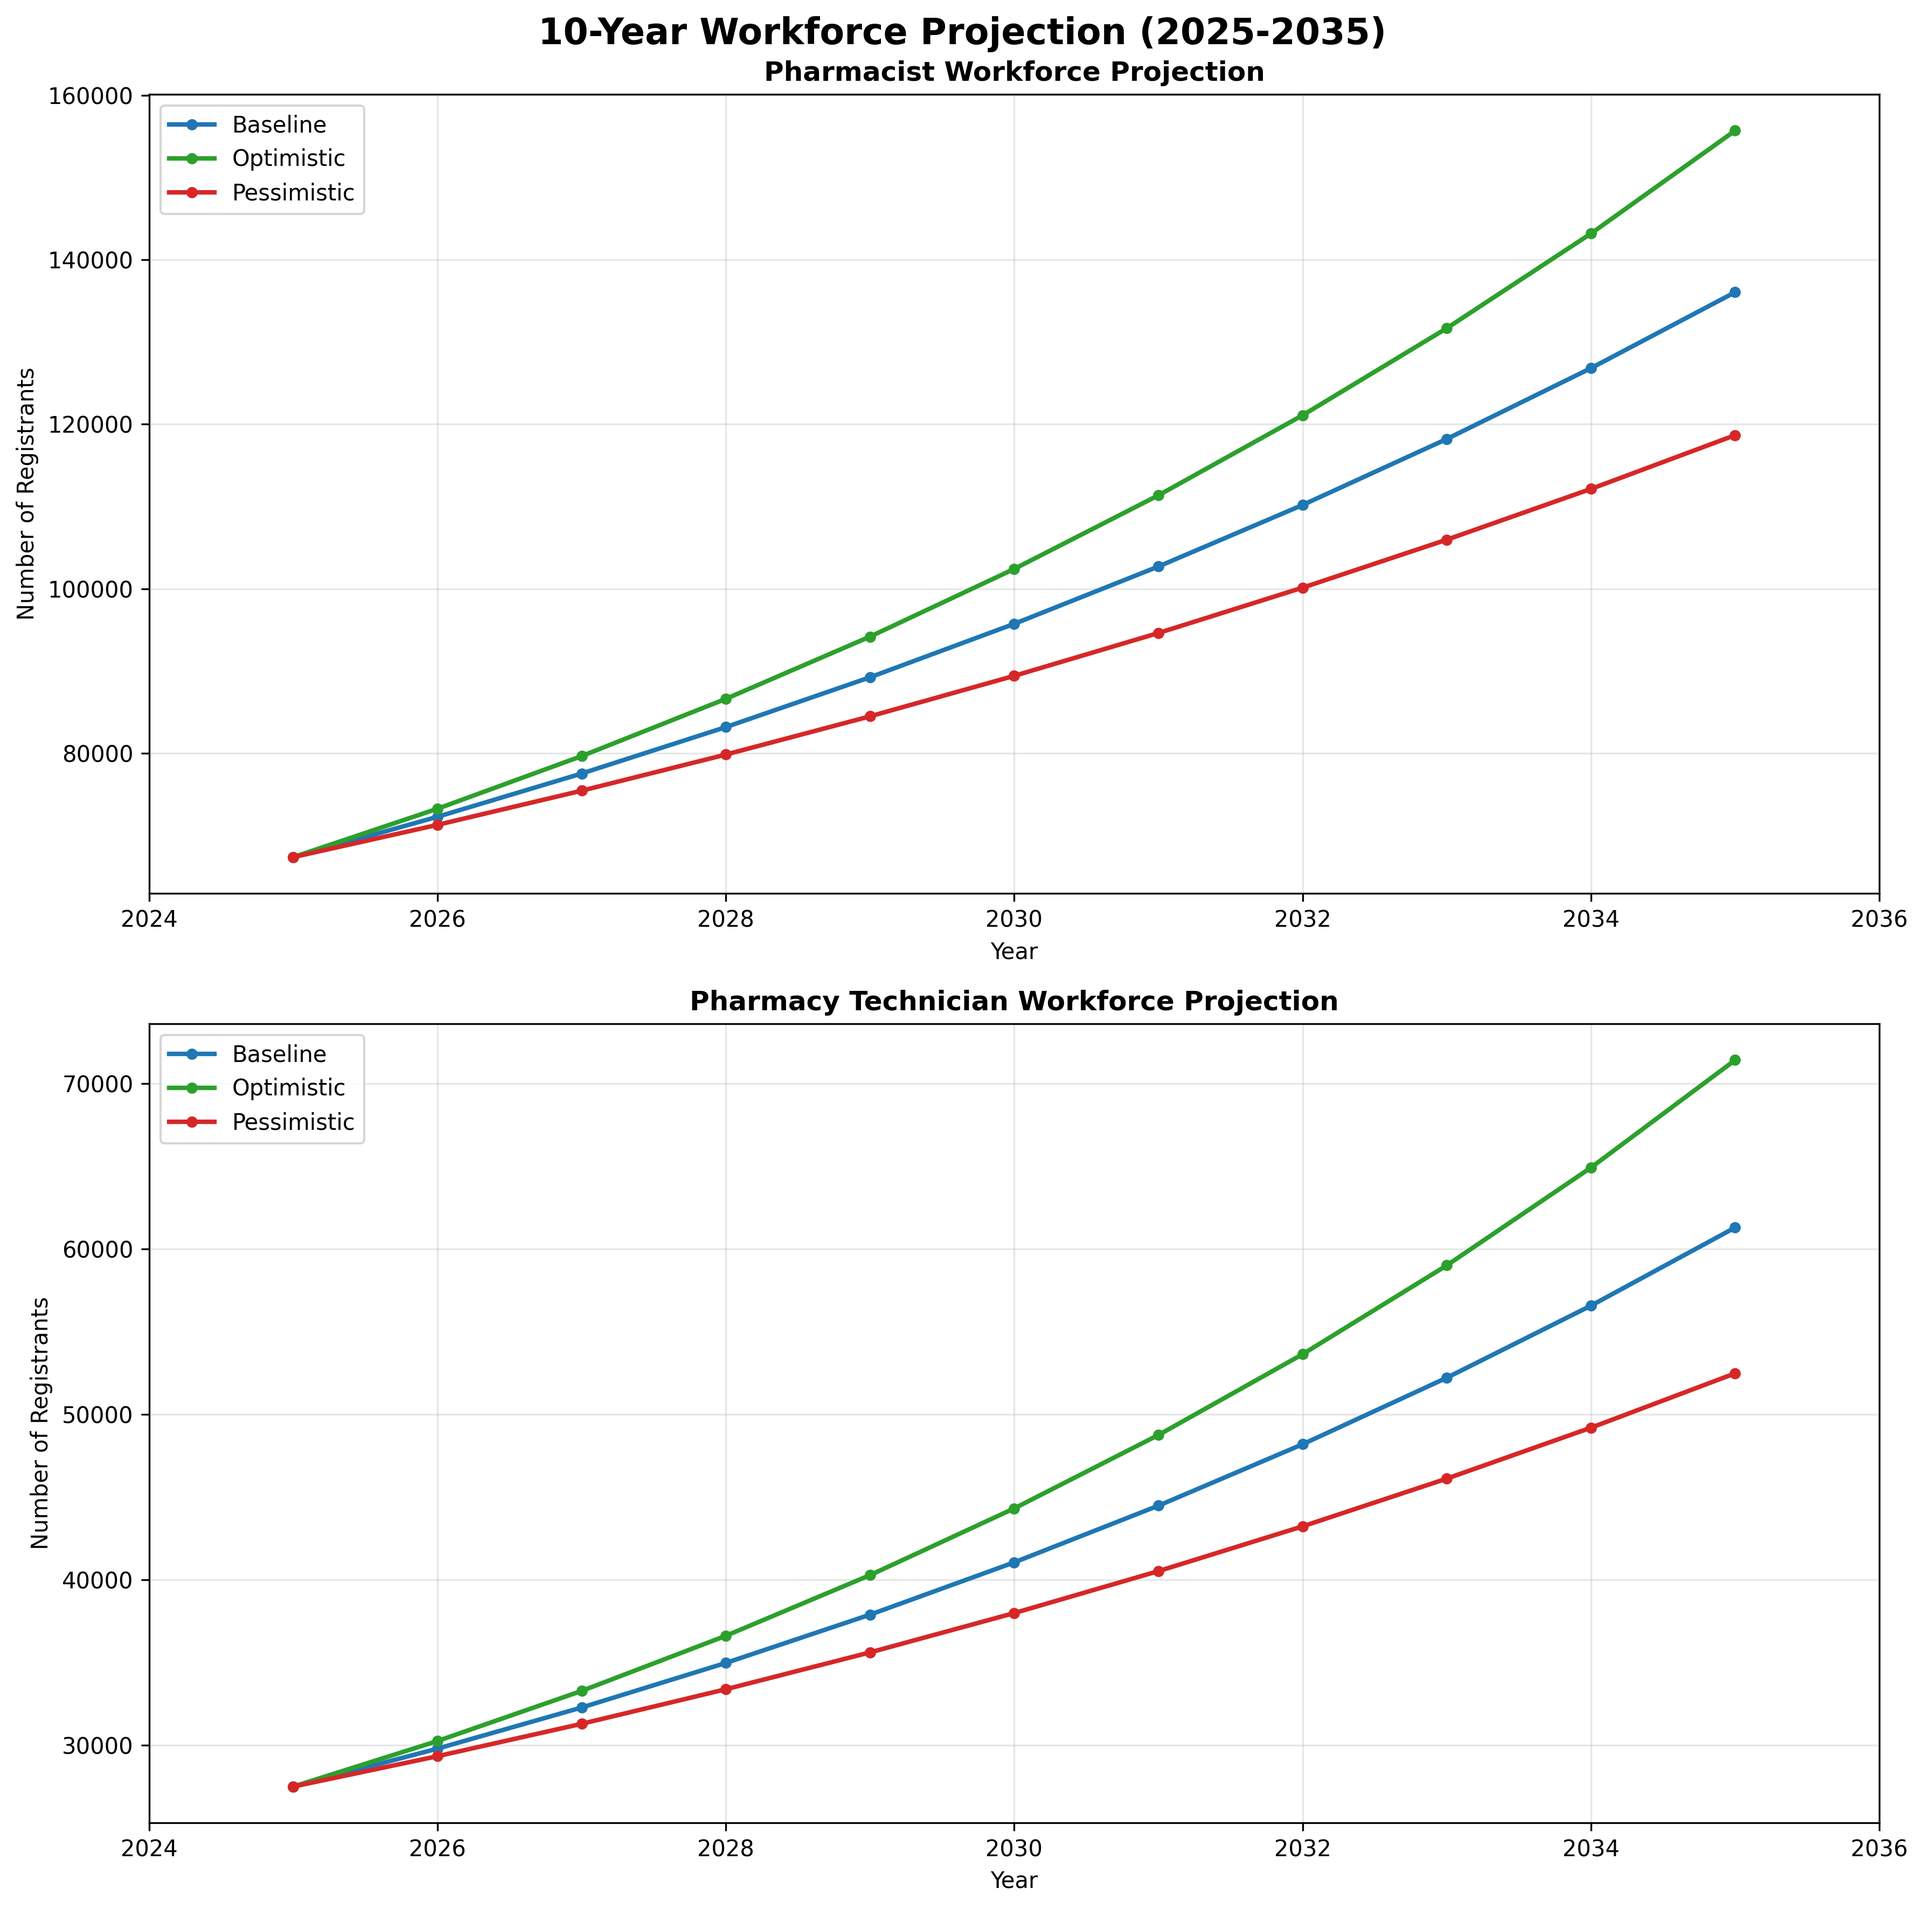
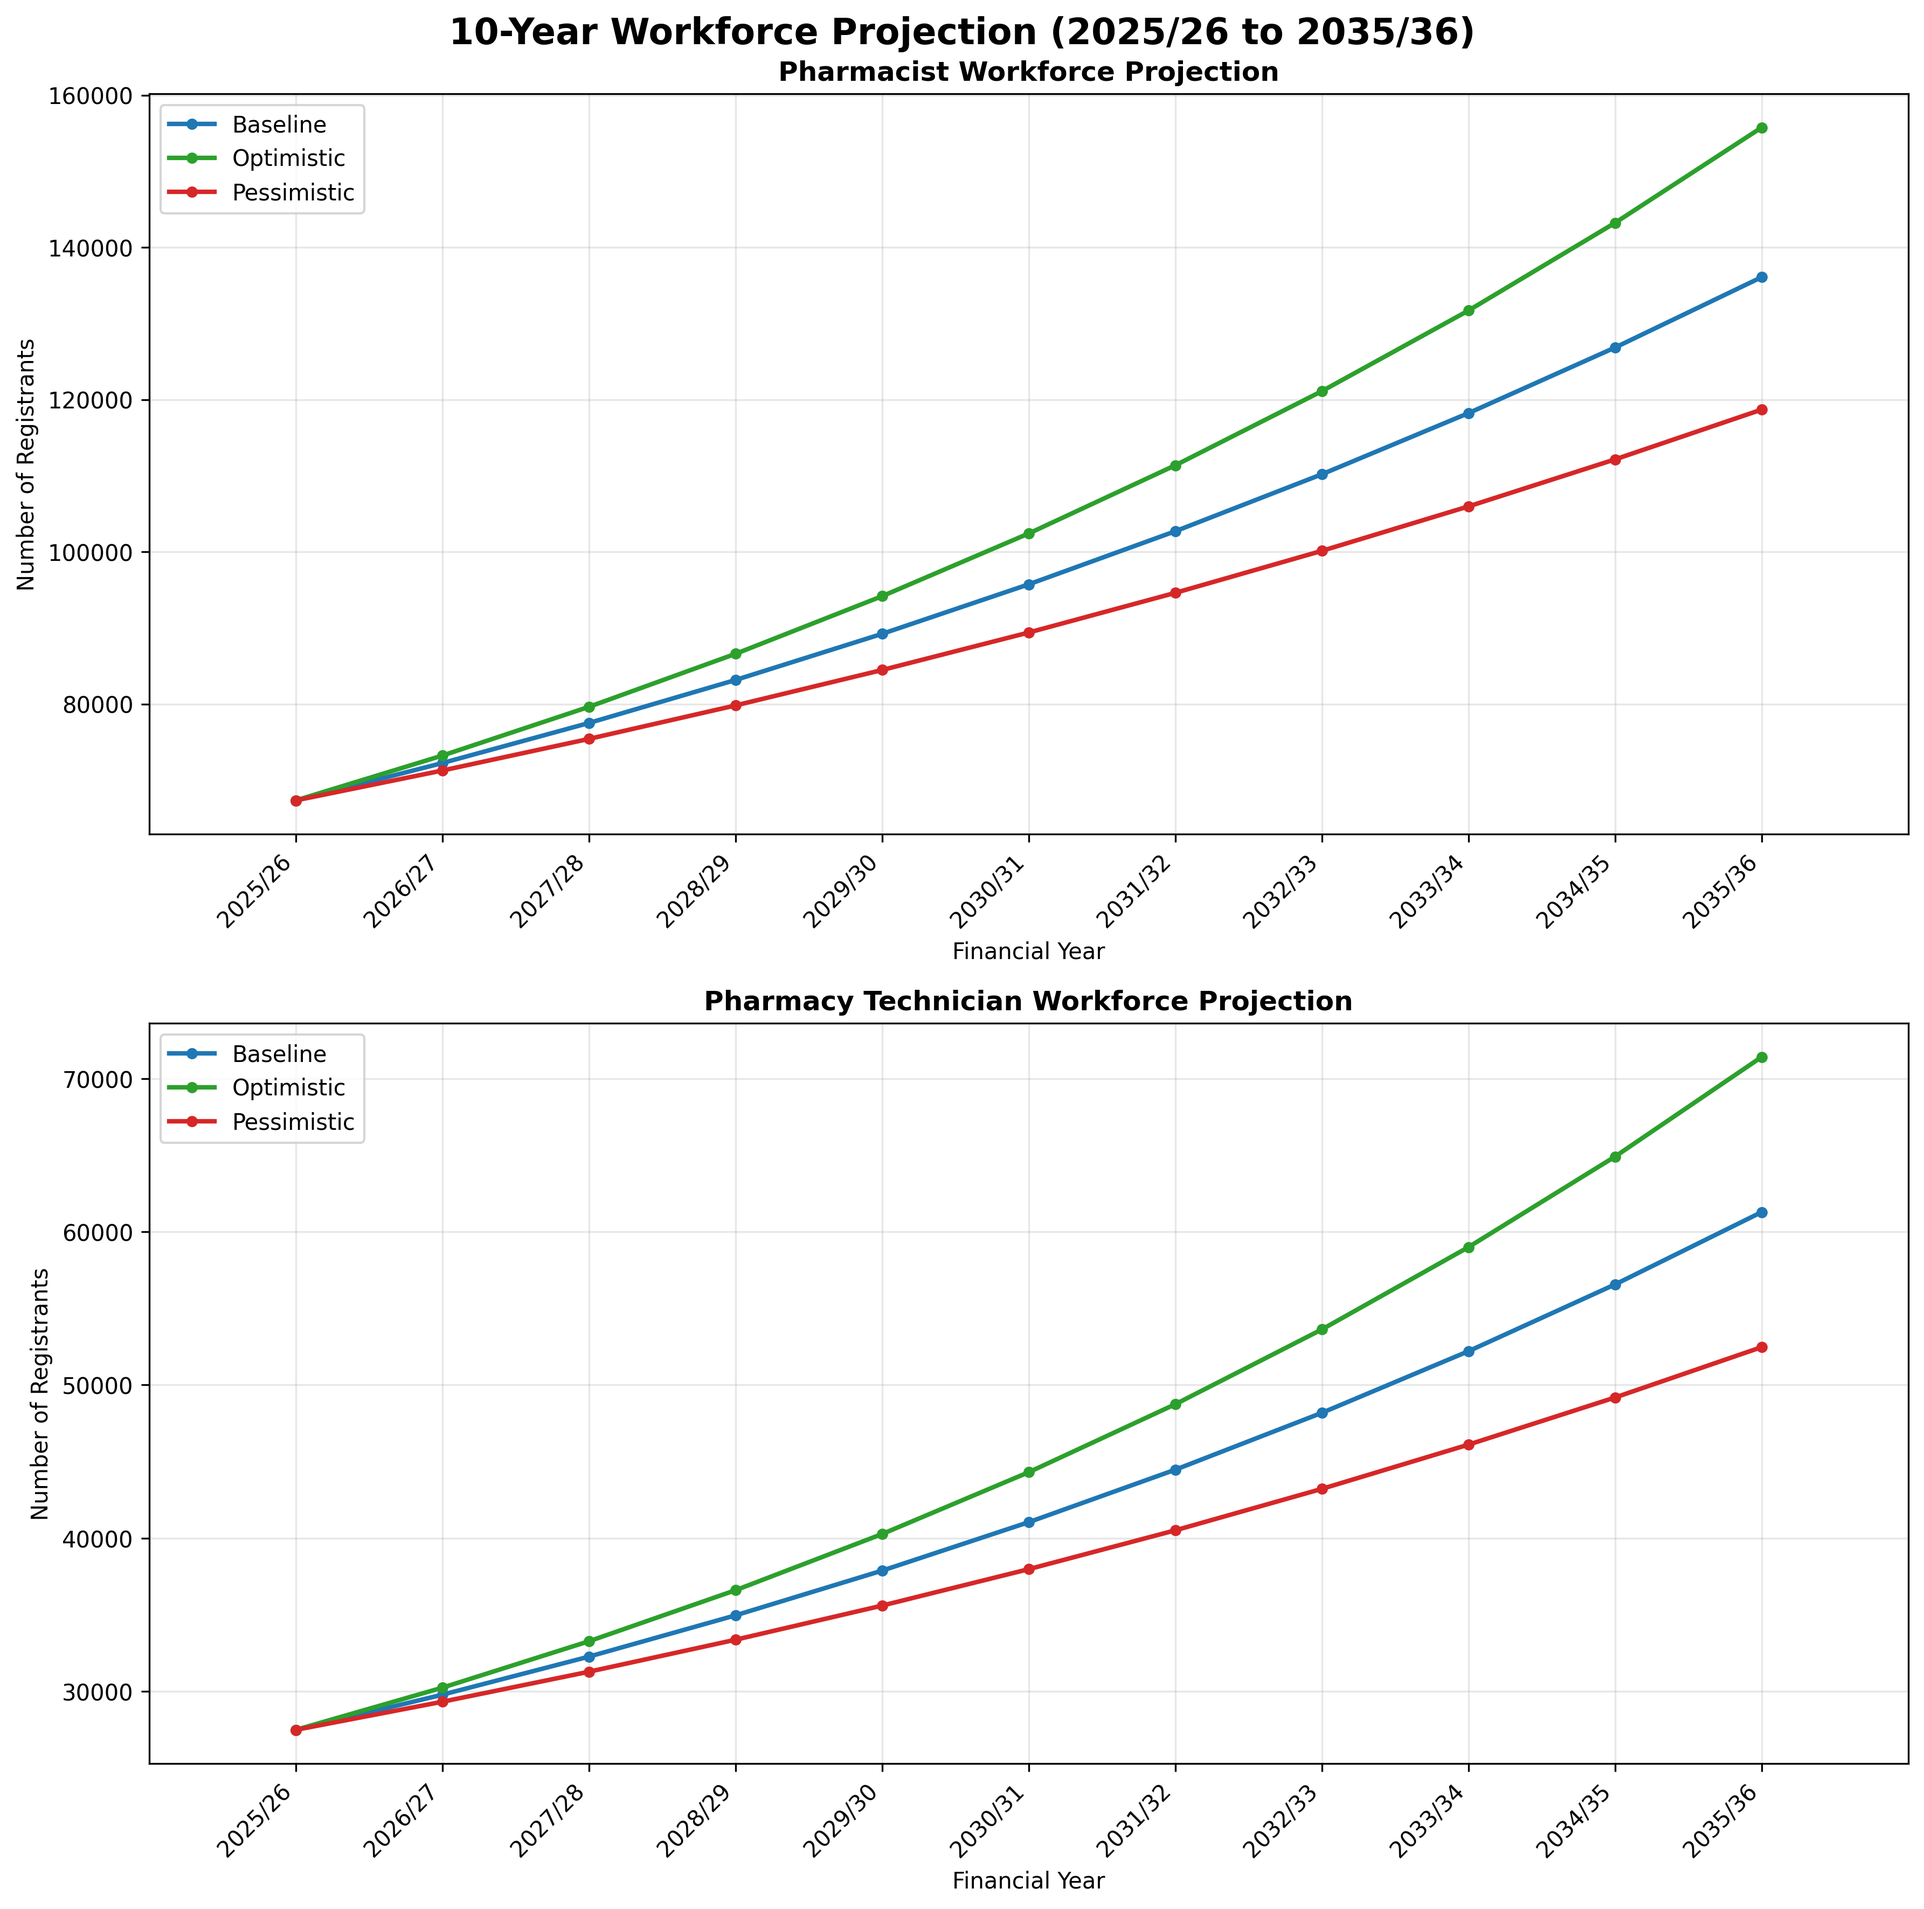
feat: add financial year support to workforce projections and refactor module structure

diff --git a/viz/visualize_projections.py b/viz/visualize_projections.py
@@ -23,6 +23,7 @@ from project_workforce import (
     project_workforce,
     format_projections
 )
+from utils import calendar_to_financial_year
 
 
 def create_visualizations(output_dir=None):
@@ -49,6 +50,7 @@ def create_visualizations(output_dir=None):
     projections_df = format_projections(projections)
     
     # Combine all profession dataframes into one
+    # Financial year column is already included from format_projections
     df = pd.concat(projections_df.values(), ignore_index=True)
     
     # Get unique professions dynamically
@@ -57,10 +59,12 @@ def create_visualizations(output_dir=None):
     
     # Create figure with subplots (one per profession)
     end_year = START_PROJECTION_YEAR + PROJECTION_YEARS
+    start_fy = calendar_to_financial_year(START_PROJECTION_YEAR)
+    end_fy = calendar_to_financial_year(end_year)
     fig, axes = plt.subplots(num_professions, 1, figsize=(12, 6 * num_professions))
     if num_professions == 1:
         axes = [axes]  # Make it iterable if only one profession
-    fig.suptitle(f'{PROJECTION_YEARS}-Year Workforce Projection ({START_PROJECTION_YEAR}-{end_year})', 
+    fig.suptitle(f'{PROJECTION_YEARS}-Year Workforce Projection ({start_fy} to {end_fy})', 
                  fontsize=16, fontweight='bold')
     
     scenarios = ['baseline', 'optimistic', 'pessimistic']
@@ -71,16 +75,24 @@ def create_visualizations(output_dir=None):
         ax = axes[idx]
         for scenario in scenarios:
             data = df[(df['profession'] == profession) & (df['scenario'] == scenario)]
+            # Use year for plotting position, but financial_year for labels
             ax.plot(data['year'], data['total_registrants'], 
                     marker='o', label=scenario.capitalize(), 
                     color=colors[scenario], linewidth=2, markersize=4)
         
+        # Set x-axis labels to financial years
         ax.set_title(f'{profession} Workforce Projection', fontsize=12, fontweight='bold')
-        ax.set_xlabel('Year')
+        ax.set_xlabel('Financial Year')
         ax.set_ylabel('Number of Registrants')
         ax.legend()
         ax.grid(True, alpha=0.3)
         ax.set_xlim(START_PROJECTION_YEAR - 1, end_year + 1)
+        
+        # Set x-axis ticks and labels to financial years
+        tick_positions = range(START_PROJECTION_YEAR, end_year + 1)
+        tick_labels = [calendar_to_financial_year(year) for year in tick_positions]
+        ax.set_xticks(tick_positions)
+        ax.set_xticklabels(tick_labels, rotation=45, ha='right')
     
     plt.tight_layout()
     
@@ -103,13 +115,19 @@ def create_visualizations(output_dir=None):
             ax.plot(data['year'], data['total_registrants'], 
                    marker='o', label=label, linewidth=2, markersize=3, linestyle=linestyle)
     
-    ax.set_title(f'{PROJECTION_YEARS}-Year Workforce Projection: All Professions and Scenarios', 
+    ax.set_title(f'{PROJECTION_YEARS}-Year Workforce Projection: All Professions and Scenarios ({start_fy} to {end_fy})', 
                  fontsize=14, fontweight='bold')
-    ax.set_xlabel('Year')
+    ax.set_xlabel('Financial Year')
     ax.set_ylabel('Number of Registrants')
     ax.legend(loc='upper left', fontsize=9)
     ax.grid(True, alpha=0.3)
     ax.set_xlim(START_PROJECTION_YEAR - 1, end_year + 1)
+    
+    # Set x-axis ticks and labels to financial years
+    tick_positions = range(START_PROJECTION_YEAR, end_year + 1)
+    tick_labels = [calendar_to_financial_year(year) for year in tick_positions]
+    ax.set_xticks(tick_positions)
+    ax.set_xticklabels(tick_labels, rotation=45, ha='right')
     
     plt.tight_layout()
     

diff --git a/src/utils.py b/src/utils.py
@@ -1,7 +1,8 @@
 """
 Utility functions for project setup and file paths.
 
-Provides helper functions for managing data directories and project paths.
+Provides helper functions for managing data directories and project paths,
+and financial year conversions.
 """
 
 from pathlib import Path
@@ -43,4 +44,36 @@ def get_project_root():
     script_dir = Path(__file__).parent
     project_root = script_dir.parent
     return project_root
+
+
+def calendar_to_financial_year(calendar_year):
+    """
+    Convert calendar year to UK financial year format (e.g., 2025 -> '2025/26').
+    
+    UK financial year runs from April to March.
+    Financial year 2025/26 = April 2025 to March 2026.
+    
+    Args:
+        calendar_year: Calendar year (int)
+    
+    Returns:
+        str: Financial year in format 'YYYY/YY'
+    """
+    next_year_short = str(calendar_year + 1)[-2:]
+    return f"{calendar_year}/{next_year_short}"
+
+
+def add_financial_year_column(df):
+    """
+    Add financial year column to dataframe based on calendar year.
+    
+    Args:
+        df: DataFrame with 'year' column
+    
+    Returns:
+        DataFrame: DataFrame with added 'financial_year' column
+    """
+    df = df.copy()
+    df['financial_year'] = df['year'].apply(calendar_to_financial_year)
+    return df
 

diff --git a/src/project_workforce.py b/src/project_workforce.py
@@ -13,6 +13,7 @@ from config import (
     SCENARIOS
 )
 from input_data import load_registrants_data
+from utils import add_financial_year_column
 
 
 def load_registration_data(data_dir=None):
@@ -121,7 +122,7 @@ def project_workforce(rates, years=None, scenarios=None):
 
 
 def format_projections(projections):
-    """Format projections into DataFrames for easy export."""
+    """Format projections into DataFrames with financial year column."""
     formatted = {}
     
     for profession, scenarios in projections.items():
@@ -136,7 +137,10 @@ def format_projections(projections):
                     'scenario': scenario_name
                 })
         
-        formatted[profession] = pd.DataFrame(rows)
+        df = pd.DataFrame(rows)
+        # Add financial year column
+        df = add_financial_year_column(df)
+        formatted[profession] = df
     
     return formatted
 

diff --git a/src/config.py b/src/config.py
@@ -12,6 +12,12 @@ BASELINE_MONTH = 3  # March 2025
 CURRENT_YEAR = 2025
 CURRENT_MONTH = 9  # September 2025
 
+# Import financial year conversion function
+from utils import calendar_to_financial_year
+
+# Convert current year to financial year format (2025 -> '2025/26')
+CURRENT_FINANCIAL_YEAR = calendar_to_financial_year(CURRENT_YEAR)  # 2025/26
+
 # Projection parameters
 PROJECTION_YEARS = 10  # Number of years to project forward
 START_PROJECTION_YEAR = 2025  # Year to start projections from
